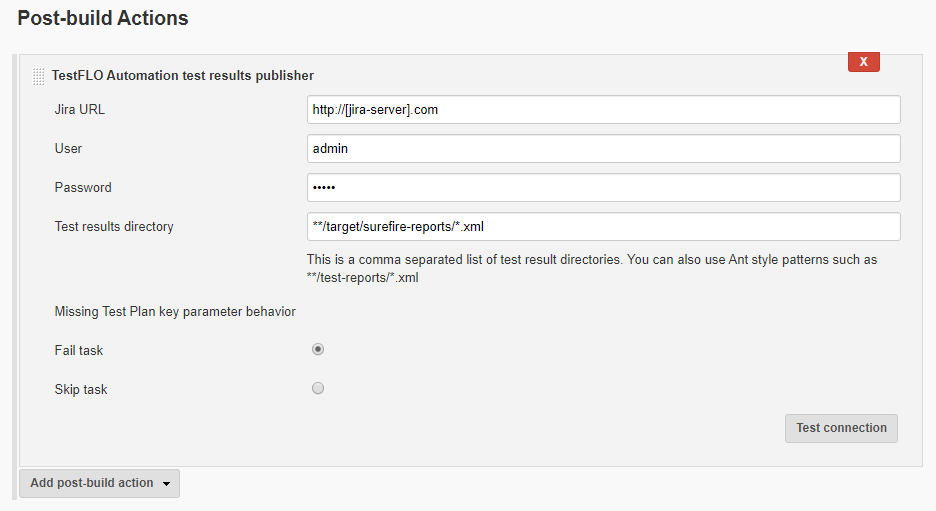
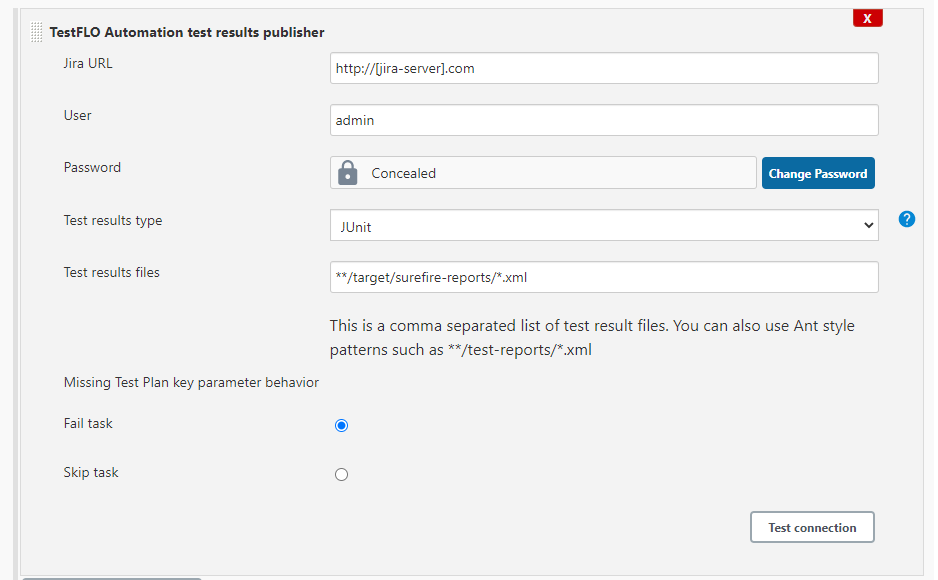
JPTMS-4176 update doc
(cherry picked from commit b131c049fce57f092f9b536e553980338b825f5f)

diff --git a/README.md b/README.md
@@ -8,24 +8,26 @@ This plugin integrates Jenkins with [TestFLO](https://marketplace.atlassian.com/
 ### Supported test results formats
 - JUnit
 - TestNG
+- Cucumber (only in json output format)
 
 ### Usage
-This plugin provides new build task, which should be used in Post-build actions in the configuration of jenkins job:  
+This plugin provides new build task, which should be used in Post-build actions in the configuration of a jenkins job:  
 ![](docs/images/post_build_action_select.png)
 
-Following fields are present:  
+The following fields are present:  
 ![](docs/images/task_configuration.png)
 
 - Jira URL - URL to Jira instance, which receives test results
 - User - Jira user login
 - Password - Jira user password
-- Test results directory - Directories from which task gets test results files
+- Test results type - Framework used to produce result files. Cucumber supports only json results format
+- Test results files - Paths of test results files
 - Missing Test Plan key parameter behaviour - when task doesn't get Jira Test Plan issue key, it can either skip this task or fail it
 
 To verify task configuration, you can use "Test connection" button:  
 ![](docs/images/connection_success.png)
 
-To make job possible to trigger from TestFLO app, it is required to parametrize job with 3 parameters:  
+To make job possible to trigger from the TestFLO app, it is required to parametrize a job with 3 parameters:  
 ![](docs/images/job_parameters.png)
 - testPlanKey - contains issue key of Test Plan from which job is being run
 - targetIteration - tells whether to add Test Cases to current iteration in test plan, or to create new. You can provide default value using these options: 
@@ -37,20 +39,20 @@ You can define default value, using these options:
     - UPDATE_EXISTING
 
 #### Running tests from Jira
-Most common usage is to run tests from Jira, using TestFLO app.  
+Most common usage is to run tests from Jira, using the TestFLO app.  
 ![](docs/images/jira_run.png)
 
-Clicking on run button triggers execution of selected job in Jenkins.  
+Clicking on the run button triggers execution of selected job in Jenkins.  
 ![](docs/images/jenkins_progress.png)
 
 After Job completes, test results are sent back to Jira, which become Test Case issues on original Test Plan.  
 ![](docs/images/jira_results.png) 
 
 #### Running tests directly from Jenkins manually
-Another possible way to run tests is to trigger job execution manually, providing required parameters, which normally are handled automatically, using first approach.  
+Another possible way to run tests is to trigger a job execution manually, providing required parameters, which normally are handled automatically, using first approach.  
 ![](docs/images/jenkins_manual_run.png)
 
-In this case, job completed successfully fixing previous failed tests, displaying them in next Test Plan iteration.  
+In this case, the job completed successfully fixing previous failed tests, displaying them in a next Test Plan iteration.  
 ![](docs/images/jira_results_next_iteration.png)
 
 #### Running tests directly from Jenkins as a part of CI process
